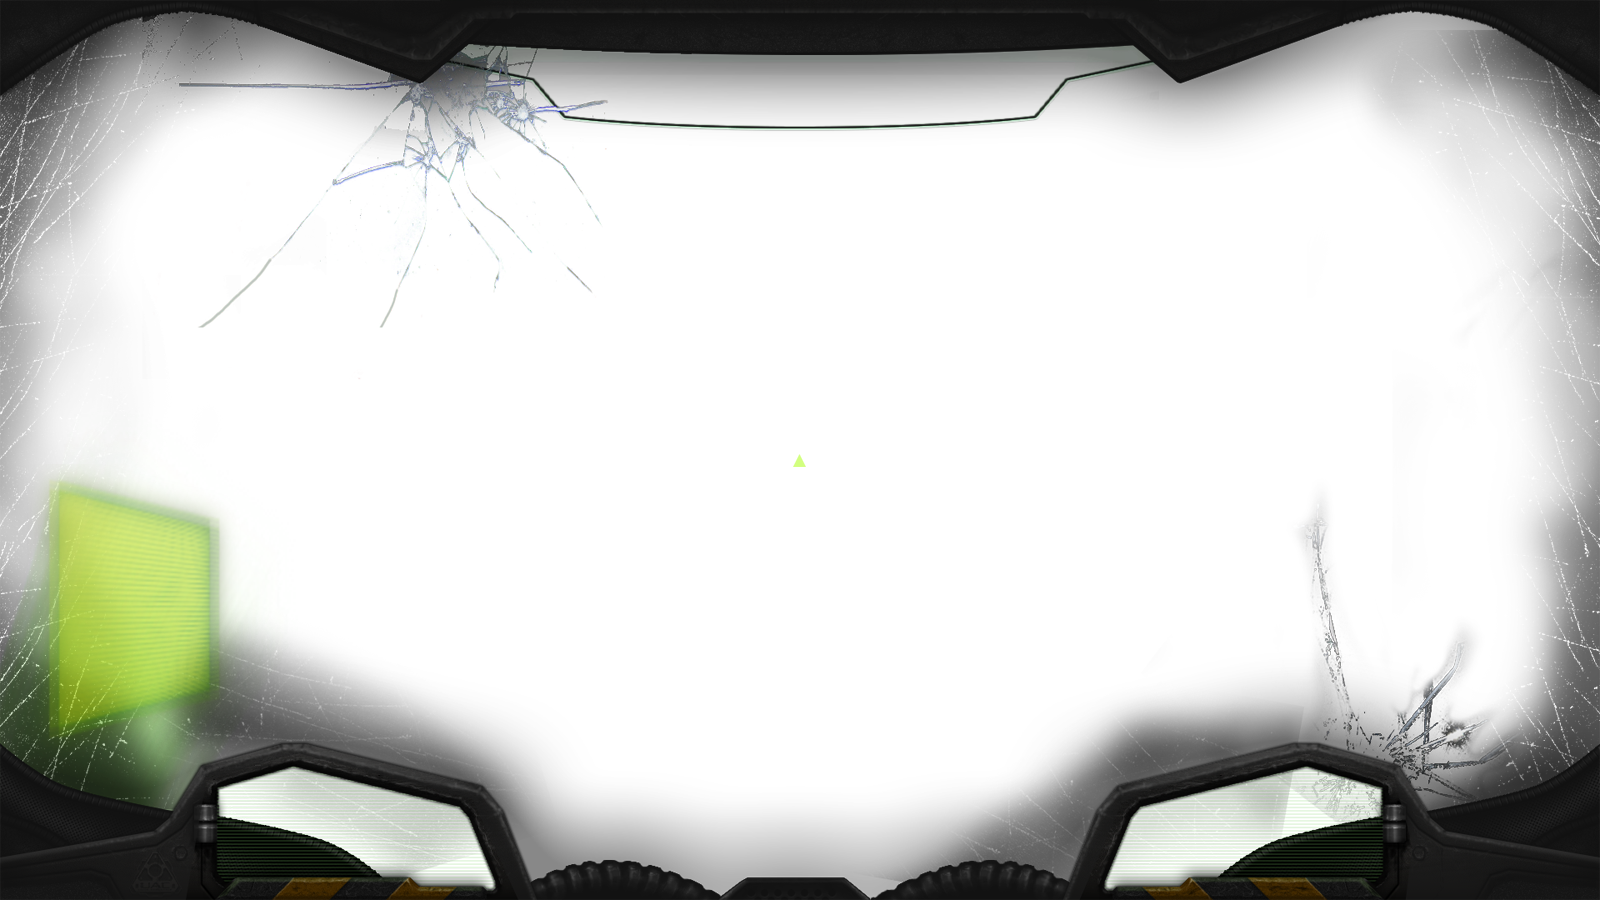
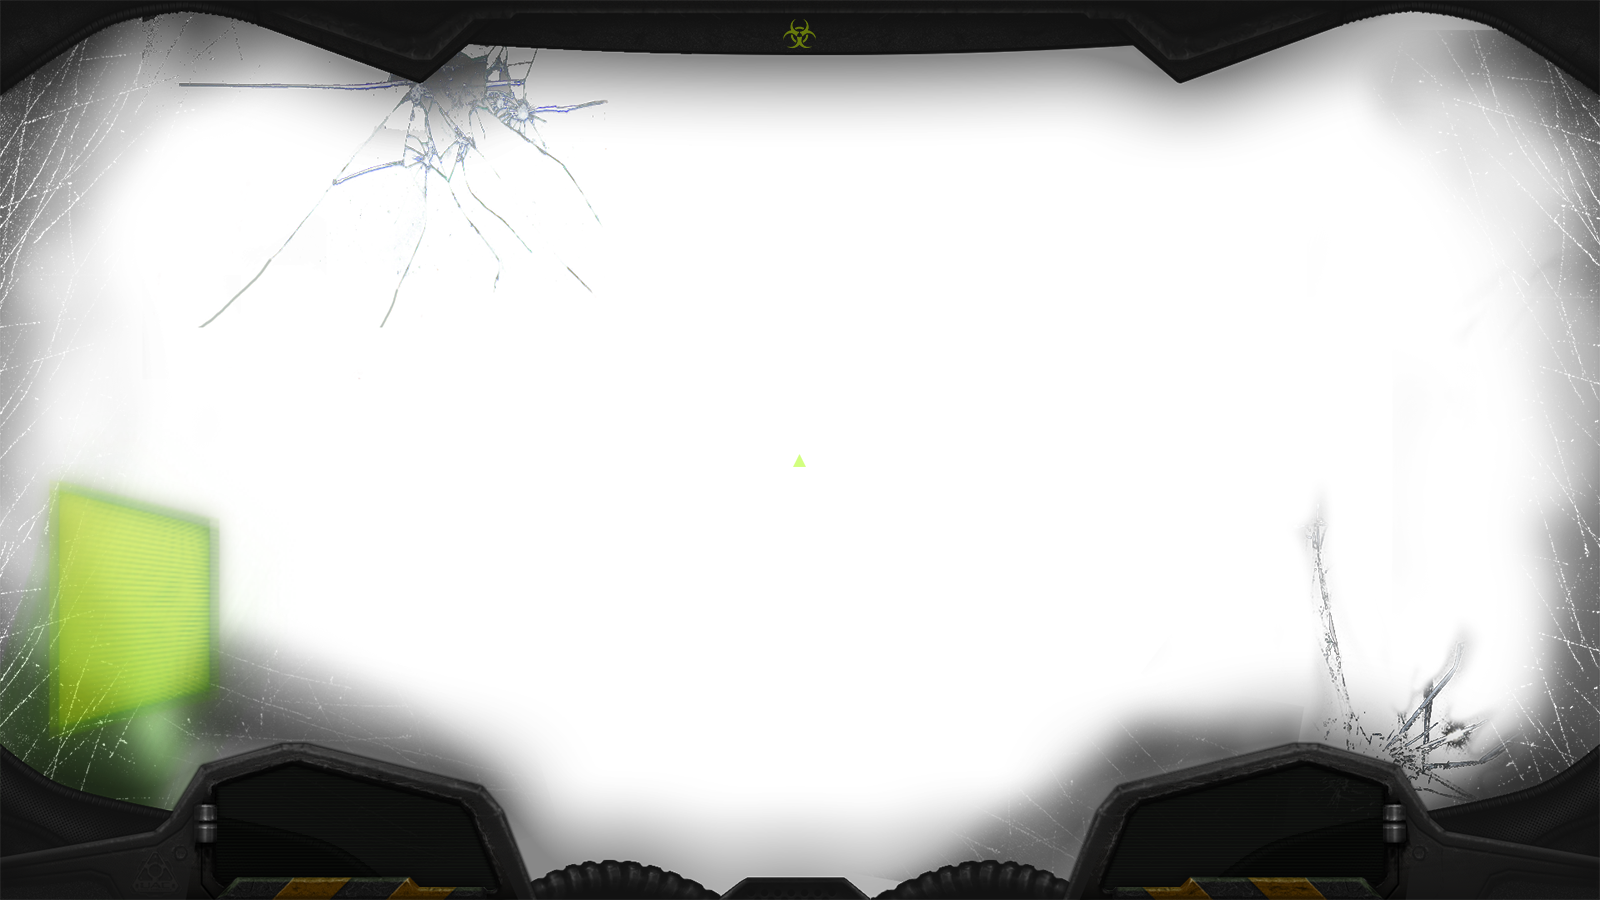
maj_hud

diff --git a/srcs_doom/ft_hud.c b/srcs_doom/ft_hud.c
@@ -266,10 +266,10 @@ void    draw_hud(t_info *info)
 	info->hud[1].img = IMG_Load("hud/hud_key.png");
 	info->hud[1].texture = SDL_CreateTextureFromSurface(info->win.renderer,\
 		info->hud[1].img);
-	info->hud[1].rect.x = 0;
-	info->hud[1].rect.y = 0;
-	info->hud[1].rect.w = WIDTH;
-	info->hud[1].rect.h = HEIGHT;
+	info->hud[1].rect.x = 1010;
+	info->hud[1].rect.y = 790;
+	info->hud[1].rect.w = 109;
+	info->hud[1].rect.h = 89;
 
 	draw_head(info);
 }
